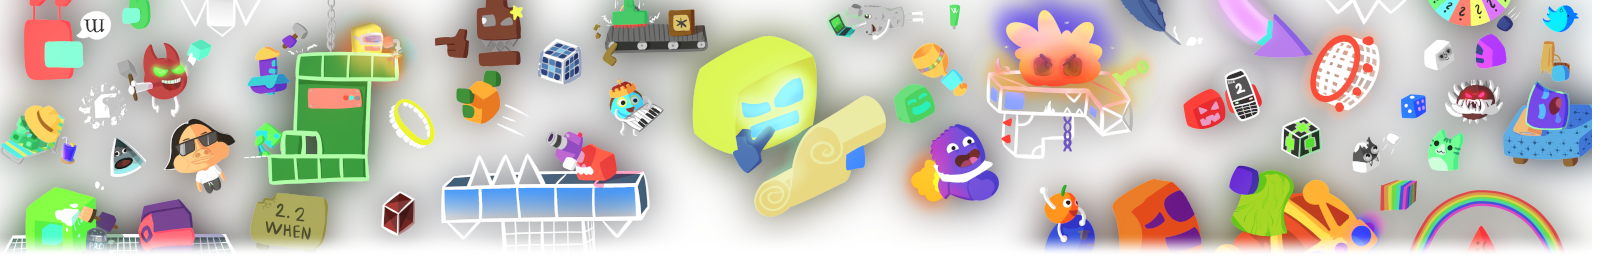
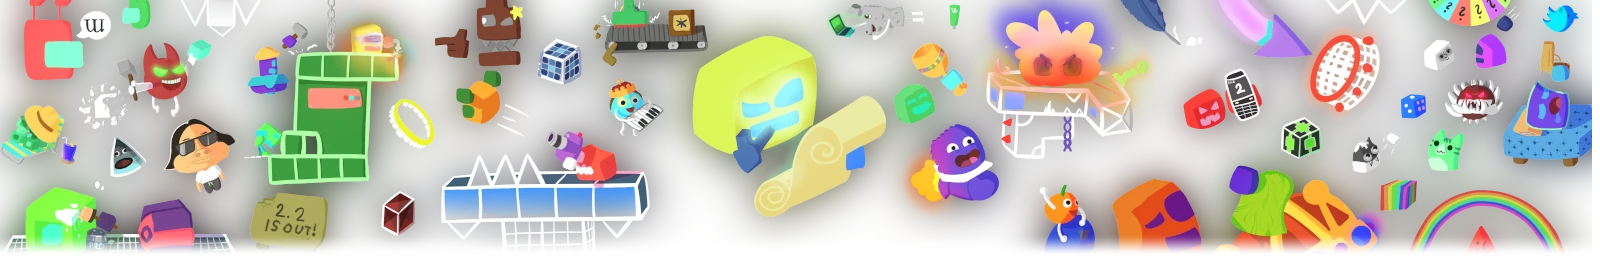
added 2.2 stuff

diff --git a/src/components/global/LevelCard.vue b/src/components/global/LevelCard.vue
@@ -15,6 +15,7 @@ const props = defineProps<{
   difficulty: [number, number];
   color: [number, number, number] | string;
   tags: LevelTag[];
+  platf: boolean;
   favorited: boolean | undefined;
   levelIndex: number;
   listID: string;
@@ -85,7 +86,7 @@ async function getDifficulty() {
   if (props.difficulty) {
     difficultyFace.value = await import(`../../images/faces/${props.difficulty[0]}.webp`).then(res => res.default)
     if (props.difficulty[1]) { // Must be rated
-      difficultyGlow.value = await import(`../../images/faces/${["","star","featured","epic"][props.difficulty[1]]}.webp`).then(res => res.default)
+      difficultyGlow.value = await import(`../../images/faces/${["","star","featured","epic","legendary","mythic"][props.difficulty[1]]}.webp`).then(res => res.default)
     }
   }
 }
@@ -165,33 +166,50 @@ function nextGuess(results: number) {
             <img
               class="relative z-10 w-10"
               :src="difficultyFace"
-              :class="{'translate-y-0.5': difficulty[1] == 3}"
+              :class="{'translate-y-0.5': difficulty[1] >= 3}"
               :style="{scale: diffScaleOffsets[difficulty[0]-6], translate: diffTranslateOffsets[difficulty[0]-6]}"
               alt=""  
             />
 
 
+            <!-- Mythic glow -->
+            <img
+              v-if="difficulty[1] == 5"
+              class="absolute top-1/2 -translate-y-1/2 -translate-x-0.5 z-0 w-full scale-[1.8]"
+              :class="{
+              }"
+              :src="difficultyGlow"
+              alt=""
+            />
+            <!-- Legendary glow -->
+            <img
+              v-if="difficulty[1] == 4"
+              class="absolute top-1/2 -translate-y-1/2  z-0 w-full scale-[1.6]"
+              :class="{
+              }"
+              :src="difficultyGlow"
+              alt=""
+            />
+            
             <!-- Featured glow -->
             <img
               v-if="difficulty[1] == 2"
               class="absolute top-1/2 -translate-y-1/2  z-0 w-full scale-[1.4]"
-              :class="{
-              }"
               :src="difficultyGlow"
               alt=""
             />
 
             <!-- Epic rate -->
             <img
-              v-else-if="difficulty[1] == 3"
-              class="absolute -top-1 -z-10 w-full scale-[1.6]"
+              v-if="difficulty[1] == 3"
+              class="absolute -top-1 z-0 w-full scale-[1.6]"
               :src="difficultyGlow"
               alt=""
             />
 
             <!-- Star rate -->
             <img
-              v-else-if="difficulty[1] == 1"
+              v-if="difficulty[1] == 1"
               class="absolute -right-0 -bottom-0 z-20 w-4 scale-150"
               :src="difficultyGlow"
               alt=""
@@ -199,7 +217,8 @@ function nextGuess(results: number) {
           </div>
 
           <!-- Level name -->
-          <h2 :class="{'ml-2': !guessingNow}" class="text-3xl font-black max-sm:max-w-[60vw] max-sm:text-center break-words">
+          <h2 :class="{'ml-2': !guessingNow}" class="text-3xl relative font-black max-sm:max-w-[60vw] max-sm:text-center break-words">
+            <h4 class="absolute -top-4 text-sm" v-if="platf">Platformer</h4>
             {{ levelName || $t('other.unnamesd') }}
           </h2>
         </header>

diff --git a/src/components/editor/EditorCard.vue b/src/components/editor/EditorCard.vue
@@ -59,7 +59,7 @@ const getRateImage = async () => {
   let rate = levelList.value.levels[props.index!].difficulty?.[1] ?? 0;
   if (rate == 0) rateImagePath.value = ""; // Unrated level
   else {
-    return await import(`../../images/faces/${["star", "featured", "epic"][rate - 1]}.webp`).then(res => rateImagePath.value = res.default);
+    return await import(`../../images/faces/${["star", "featured", "epic", "legendary", "mythic"][rate - 1]}.webp`).then(res => rateImagePath.value = res.default);
   }
 };
 getRateImage()
@@ -188,6 +188,12 @@ function searchLevel(searchingByID: boolean, userSearchPage: number = 0) {
       ytVideoData.value = await videoSearch()
     });
 }
+
+const isPlatformer = ref(levelList.value.levels[props.index!].platf)
+const switchPlatformer = () => {
+  isPlatformer.value = !isPlatformer.value
+  levelList.value.levels[props.index!].platf = isPlatformer.value
+}
 </script>
 
 <template>
@@ -252,9 +258,18 @@ function searchLevel(searchingByID: boolean, userSearchPage: number = 0) {
       <!-- Level name input -->
       <div class="flex gap-2 max-sm:w-full">
         <img
-          class="w-10 aspect-square max-sm:hidden"
+          class="p-1 bg-black bg-opacity-30 rounded-md min-w-[2.5rem] button aspect-square"
           src="../../images/level.svg"
           alt=""
+          v-if="!isPlatformer"
+          @click="switchPlatformer"
+        />
+        <img
+          class="p-1 bg-black bg-opacity-30 rounded-md min-w-[2.5rem] button aspect-square"
+          src="../../images/levelPlat.svg"
+          alt=""
+          v-else
+          @click="switchPlatformer"
         />
         <button
           :disabled="!(levelList.levels[index!].levelName != '' || levelList.levels[index!].creator != '')"
@@ -276,7 +291,7 @@ function searchLevel(searchingByID: boolean, userSearchPage: number = 0) {
           name="levelName"
           maxlength="20"
           v-model="levelList.levels[index!].levelName"
-          :placeholder="$t('level.levelName')"
+          :placeholder="isPlatformer ? $t('level.levelNamePlat') : $t('level.levelName')"
         />
       </div>
 
@@ -363,7 +378,7 @@ function searchLevel(searchingByID: boolean, userSearchPage: number = 0) {
           <img
             :src="diffFacePath"
             alt=""
-            :class="{'translate-y-0.5': levelList.levels[index!].difficulty?.[1] == 3}"
+            :class="{'translate-y-0.5': levelList.levels[index!].difficulty?.[1] >= 3}"
             :style="{scale: diffScaleOffsets[levelList.levels[index!].difficulty?.[0]-6], translate: diffTranslateOffsets[levelList.levels[index!].difficulty?.[0]-6]}"
             class="absolute z-20 w-7 pointer-events-none"
           />

diff --git a/src/components/editor/DifficultyPicker.vue b/src/components/editor/DifficultyPicker.vue
@@ -15,15 +15,17 @@ async function getDifficulties() {
     faces.value.push(await import(`../../images/faces/${i}.webp`).then(res => res.default))
   }
   
-  ['error', 'star', 'featured', 'epic'].forEach(async rating => {
-    rates.value.push(await import(`../../images/faces/${rating}.webp`).then(res => res.default))
-  });
+  let ratings = ['error', 'star', 'featured', 'epic', 'legendary', 'mythic']
+  for (const rating in ratings) {
+    rates.value.push(await import(`../../images/faces/${ratings[rating]}.webp`).then(res => res.default))
+  }
+  console.log(rates.value)
 }
 getDifficulties()
 </script>
 
 <template>
-  <section class="flex justify-between">
+  <section class="flex justify-between max-sm:flex-col">
     <div
       class="box-border flex flex-grow-[1] items-center gap-3 overflow-x-auto"
     >
@@ -39,7 +41,7 @@ getDifficulties()
       </button>
     </div>
     <div
-      class="box-border grid grid-cols-2 gap-1 p-2 min-w-max bg-black bg-opacity-20 rounded-md"
+      class="box-border grid-cols-3 gap-1 justify-between p-2 min-w-max bg-black bg-opacity-20 rounded-md max-sm:flex sm:grid"
     >
       <button
         type="button"

diff --git a/src/Editor.ts b/src/Editor.ts
@@ -44,6 +44,7 @@ export function addLevel(values: Level | null) {
     video: values?.video ?? "",
     difficulty: values?.difficulty ?? [0, 0],
     tags: values?.tags ?? [],
+    platf: values?.platf ?? false,
   };
 
   levelList.value.levels.push(levelInfo);

diff --git a/src/interfaces.ts b/src/interfaces.ts
@@ -119,6 +119,7 @@ export interface Level {
   difficulty: [number, number];
   color: [number, number, number];
   tags: LevelTag[];
+  platf: boolean;
 }
 
 export interface ListBackground {
